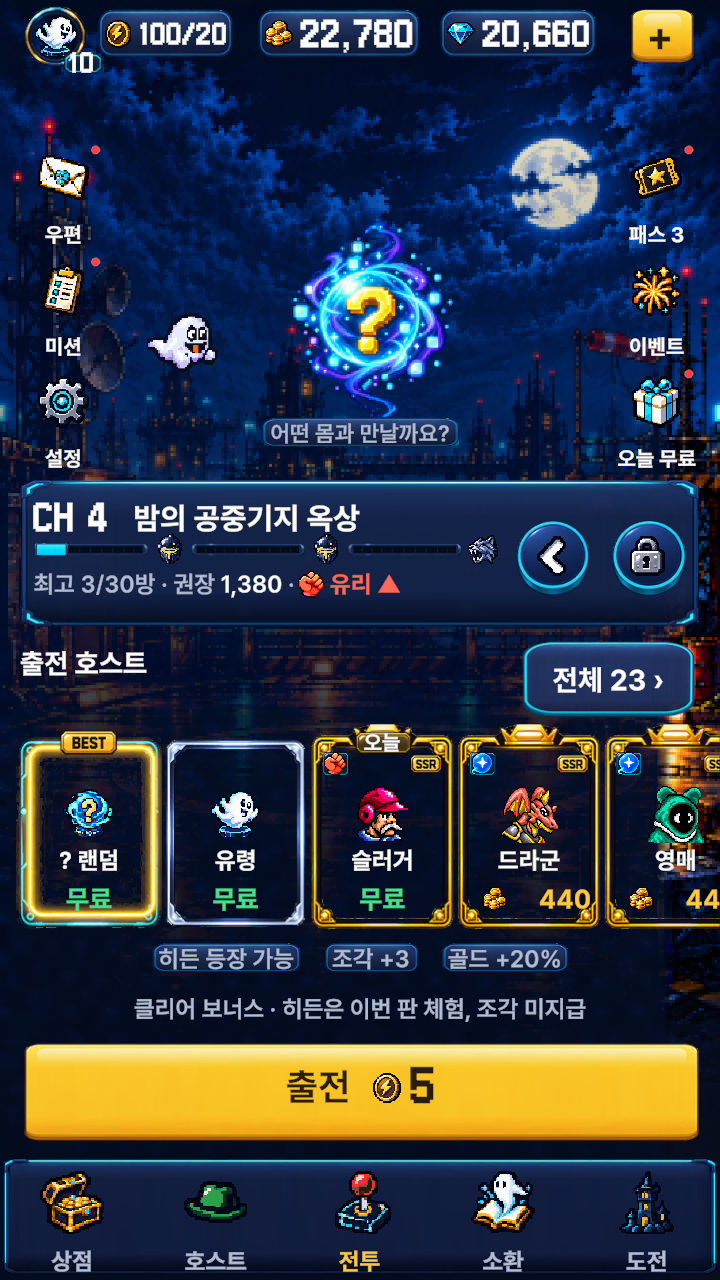
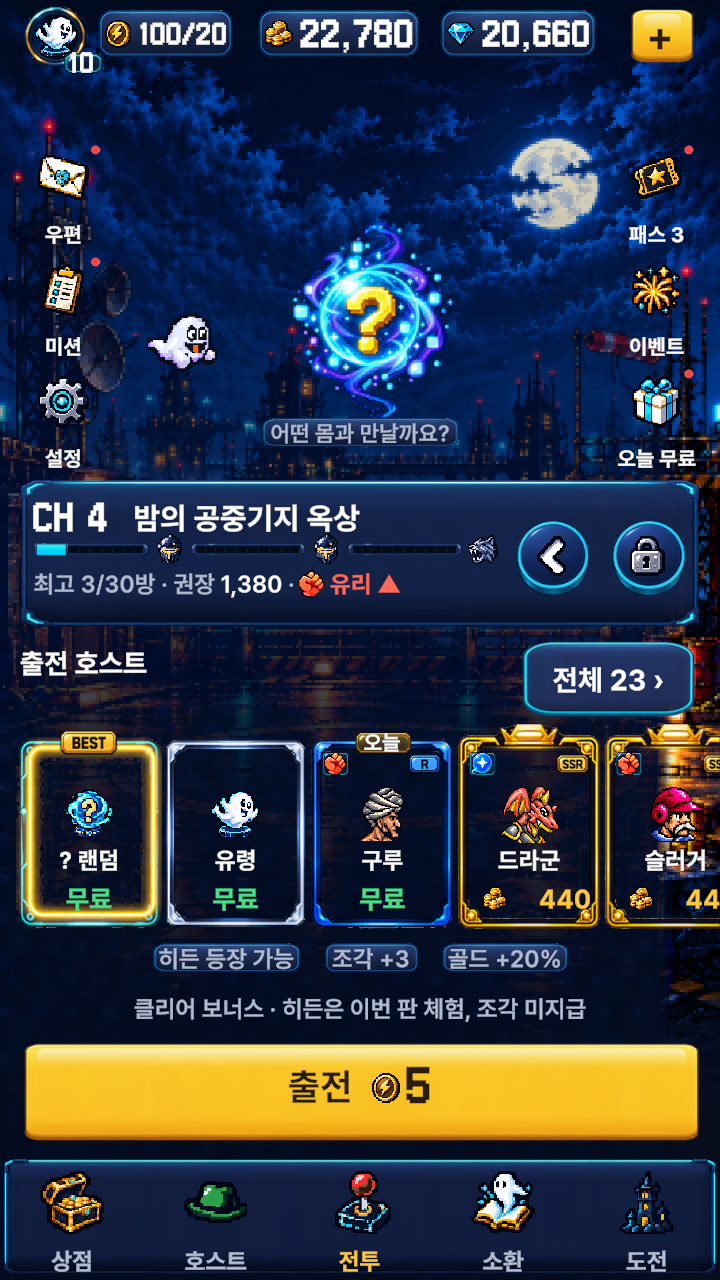
RE:BORN 로비 버그 3가지 — R 등급 태그 · 출전 버튼 글자 벌어짐 · 몸 고를 때 얼굴만 먼저 뜸
- 출전 카드 등급 태그: R 까지 전부 단다(SR 이상만 달던 조건을 뺌)
- 출전 버튼 줄: 다시 배치할 때마다 번개 · 골드 아이콘이 2씩 커져 누를수록 글자 사이가 벌어졌다 — 아이콘은 자리만 옮긴다(PutIcon)
- 메인 무대: 큰 몸 그림이 오기 전 얼굴 그림을 대신 세우지 않는다(24종 모두 큰 그림이 있다)
- 캡처 도구: battle:{n}@초 — 누른 직후를 찍는다 · 확인판 lobby_bugfix_1026.png

diff --git a/Assets/Scripts/Module/Lobby/RbLobbyUI.cs b/Assets/Scripts/Module/Lobby/RbLobbyUI.cs
@@ -416,7 +416,8 @@ namespace Game.Module.Lobby
                 if (frame != null) RbFrameFit.Apply(frame.rectTransform, ((RectTransform)card).sizeDelta, frame.sprite, _fitSprites, _fitBodies);
                 _ui.Find(card, "CardSel")?.gameObject.SetActive(sel);
 
-                // 위 왼쪽 판: 랜덤 = BEST · 오늘의 몸 = 「오늘」 / 위 오른쪽: 등급 태그(SR 이상만 — 시안). 둘은 따로 선다(PD 2026-10-26)
+                // 틀 윗변 판: 랜덤 = BEST · 오늘의 몸 = 「오늘」 / 위 오른쪽: 등급 태그 — R 까지 전부(PD 2026-10-26 「SR 이하는 왜 안 나와」,
+                // 처음엔 시안처럼 SR 이상만 달았다). 둘은 따로 선다
                 var badge = _ui.Find(card, "CardBadge")?.GetComponent<Image>();
                 var badgeText = _ui.Find(card, "CardBadgeText")?.GetComponent<TextMeshProUGUI>();
                 Sprite bs = mode == RunStartMode.Random ? _badgeBest : today ? _badgeToday : null;
@@ -424,7 +425,7 @@ namespace Game.Module.Lobby
                 if (badgeText != null) badgeText.text = today ? Localize.FromTable("ui.rb.lobby.today", "오늘") : string.Empty;
                 if (_ui.Find(card, "CardRarity")?.GetComponent<Image>() is Image rarity)
                 {
-                    bool show = mode == RunStartMode.Host && e != null && e.Grade != HostGrade.B && (int)e.Grade < _rarityTags.Length;
+                    bool show = mode == RunStartMode.Host && e != null && (int)e.Grade < _rarityTags.Length;
                     if (show) rarity.sprite = _rarityTags[(int)e.Grade];
                     rarity.gameObject.SetActive(show);
                 }
@@ -537,8 +538,10 @@ namespace Game.Module.Lobby
             _ui.SetActive("StageGhost", !ghost);
             _ui.SetActive("StageHost", !random);
             if (random || _ui.Get<Image>("StageHostArt") is not Image art) return;
-            // 큰 몸 그림(UnitShowcase)이 오기 전 · 없을 때는 얼굴이 대신 선다
-            art.sprite = ghost ? _ghostArt : Face(_host);
+            // 몸은 큰 몸 그림(UnitShowcase)만 세운다 — 얼굴을 대신 세웠더니 그림이 오기 전까지 얼굴만 떠 있다가
+            // 몸으로 바뀌었다(PD 2026-10-26 「대가리만 나오다가 다시 캐릭터가 나와」). 24종 모두 큰 그림이 있다
+            art.sprite = ghost ? _ghostArt : null;
+            art.enabled = ghost;
             if (!art.TryGetComponent<UnitShowcase>(out var show)) show = art.gameObject.AddComponent<UnitShowcase>();
             show.Show(ghost ? null : _host);
         }
@@ -574,11 +577,11 @@ namespace Game.Module.Lobby
             float total = lw + Gap * 2 + sIcon.rect.width + 4 + sw + (hasGold ? Gap + gIcon.rect.width + 4 + gw : 0f);
             float x = -total * 0.5f;
             Put(label.rectTransform, x, lw); x += lw + Gap * 2;
-            Put(sIcon, x, sIcon.rect.width); x += sIcon.rect.width + 4;
+            PutIcon(sIcon, x); x += sIcon.rect.width + 4;
             Put(sText.rectTransform, x, sw); x += sw;
             if (!hasGold) return;
             x += Gap;
-            Put(gIcon, x, gIcon.rect.width); x += gIcon.rect.width + 4;
+            PutIcon(gIcon, x); x += gIcon.rect.width + 4;
             Put(gText.rectTransform, x, gw);
         }
 
@@ -617,6 +620,10 @@ namespace Game.Module.Lobby
             r.sizeDelta = new Vector2(Mathf.Max(width + 2f, 4f), r.sizeDelta.y);
             r.anchoredPosition = new Vector2(left + r.sizeDelta.x * 0.5f, r.anchoredPosition.y);
         }
+
+        // 아이콘은 크기를 건드리지 않고 자리만 — 글자 칸처럼 +2 를 주면 몸을 누를 때마다 아이콘이 2씩 커져 줄이 벌어졌다(PD 2026-10-26)
+        private static void PutIcon(RectTransform r, float left)
+            => r.anchoredPosition = new Vector2(left + r.sizeDelta.x * 0.5f, r.anchoredPosition.y);
 
         // ── 출전 — 값을 둘 다 확인한 뒤에 낸다(골드가 모자란데 행동력만 빠지면 안 된다) ──────────
 

diff --git a/Assets/Scripts/Editor/ReBorn/RbShotTool.cs b/Assets/Scripts/Editor/ReBorn/RbShotTool.cs
@@ -24,6 +24,8 @@ namespace Game.Editor.ReBorn
             (720, 1280, Language.Korean, "battle", "lobby_16x9"),
             (720, 1280, Language.Japanese, "battle", "lobby_ja"),
             (720, 1280, Language.English, "battle", "lobby_en"),
+            (720, 1280, Language.Korean, "battle:4@0.05", "lobby_pick_early"),
+            (720, 1280, Language.Korean, "battle:5@0.3", "lobby_pick_mid"),
             (720, 1280, Language.Korean, "battle:1", "lobby_ghost_16x9"),
             (720, 1280, Language.Korean, "battle:2", "lobby_host_16x9"),
             (1080, 2400, Language.Korean, "battle:2", "lobby_host_20x9"),
@@ -499,7 +501,7 @@ namespace Game.Editor.ReBorn
             {
                 // battle:{n} — 출전 줄 n번째 카드를 고른다(1 유령 · 2 오늘의 몸) · battle:paren — 괄호 이름 카드까지 넘겨 고른다
                 lobby.SelectTab("Battle");
-                string arg = state.Substring(7);
+                string arg = state.Substring(7).Split('@')[0];   // 「battle:3@0.05」 — 누른 직후를 찍는다
                 if (arg != "paren") { Click("SortieCard" + arg); return; }
                 foreach (var t in lobby.GetComponentsInChildren<TMPro.TextMeshProUGUI>(true))
                 {
